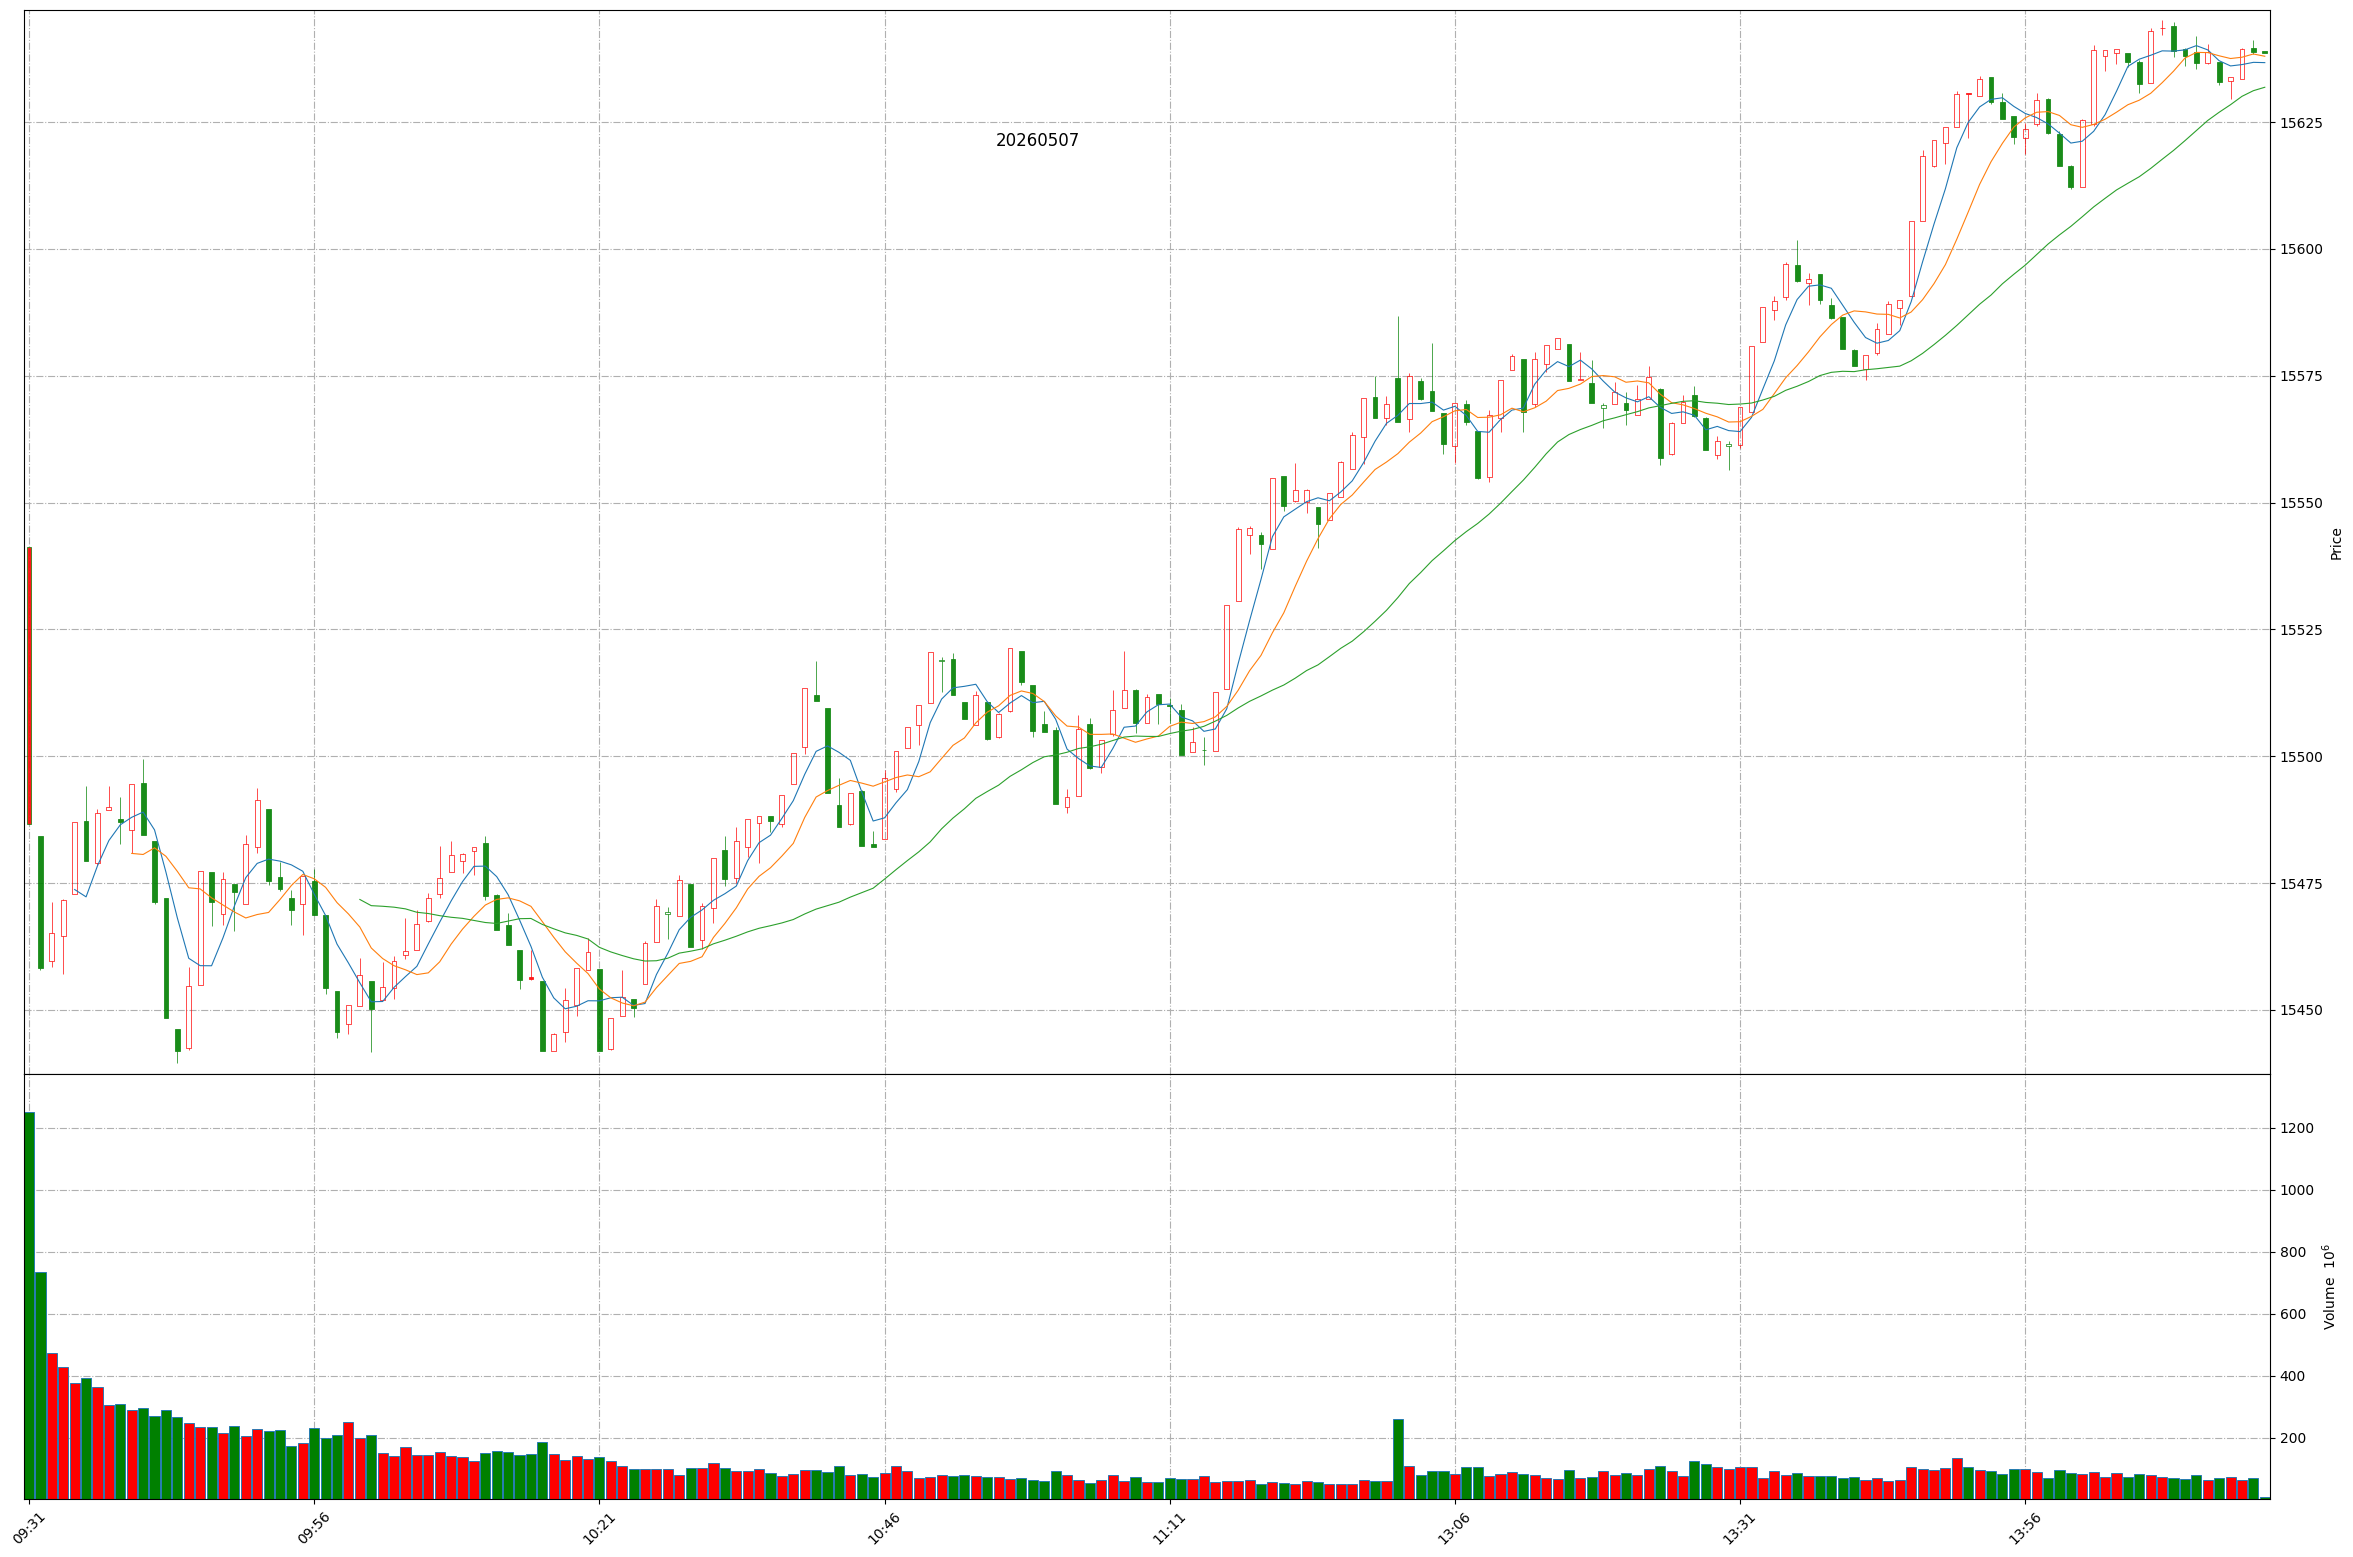
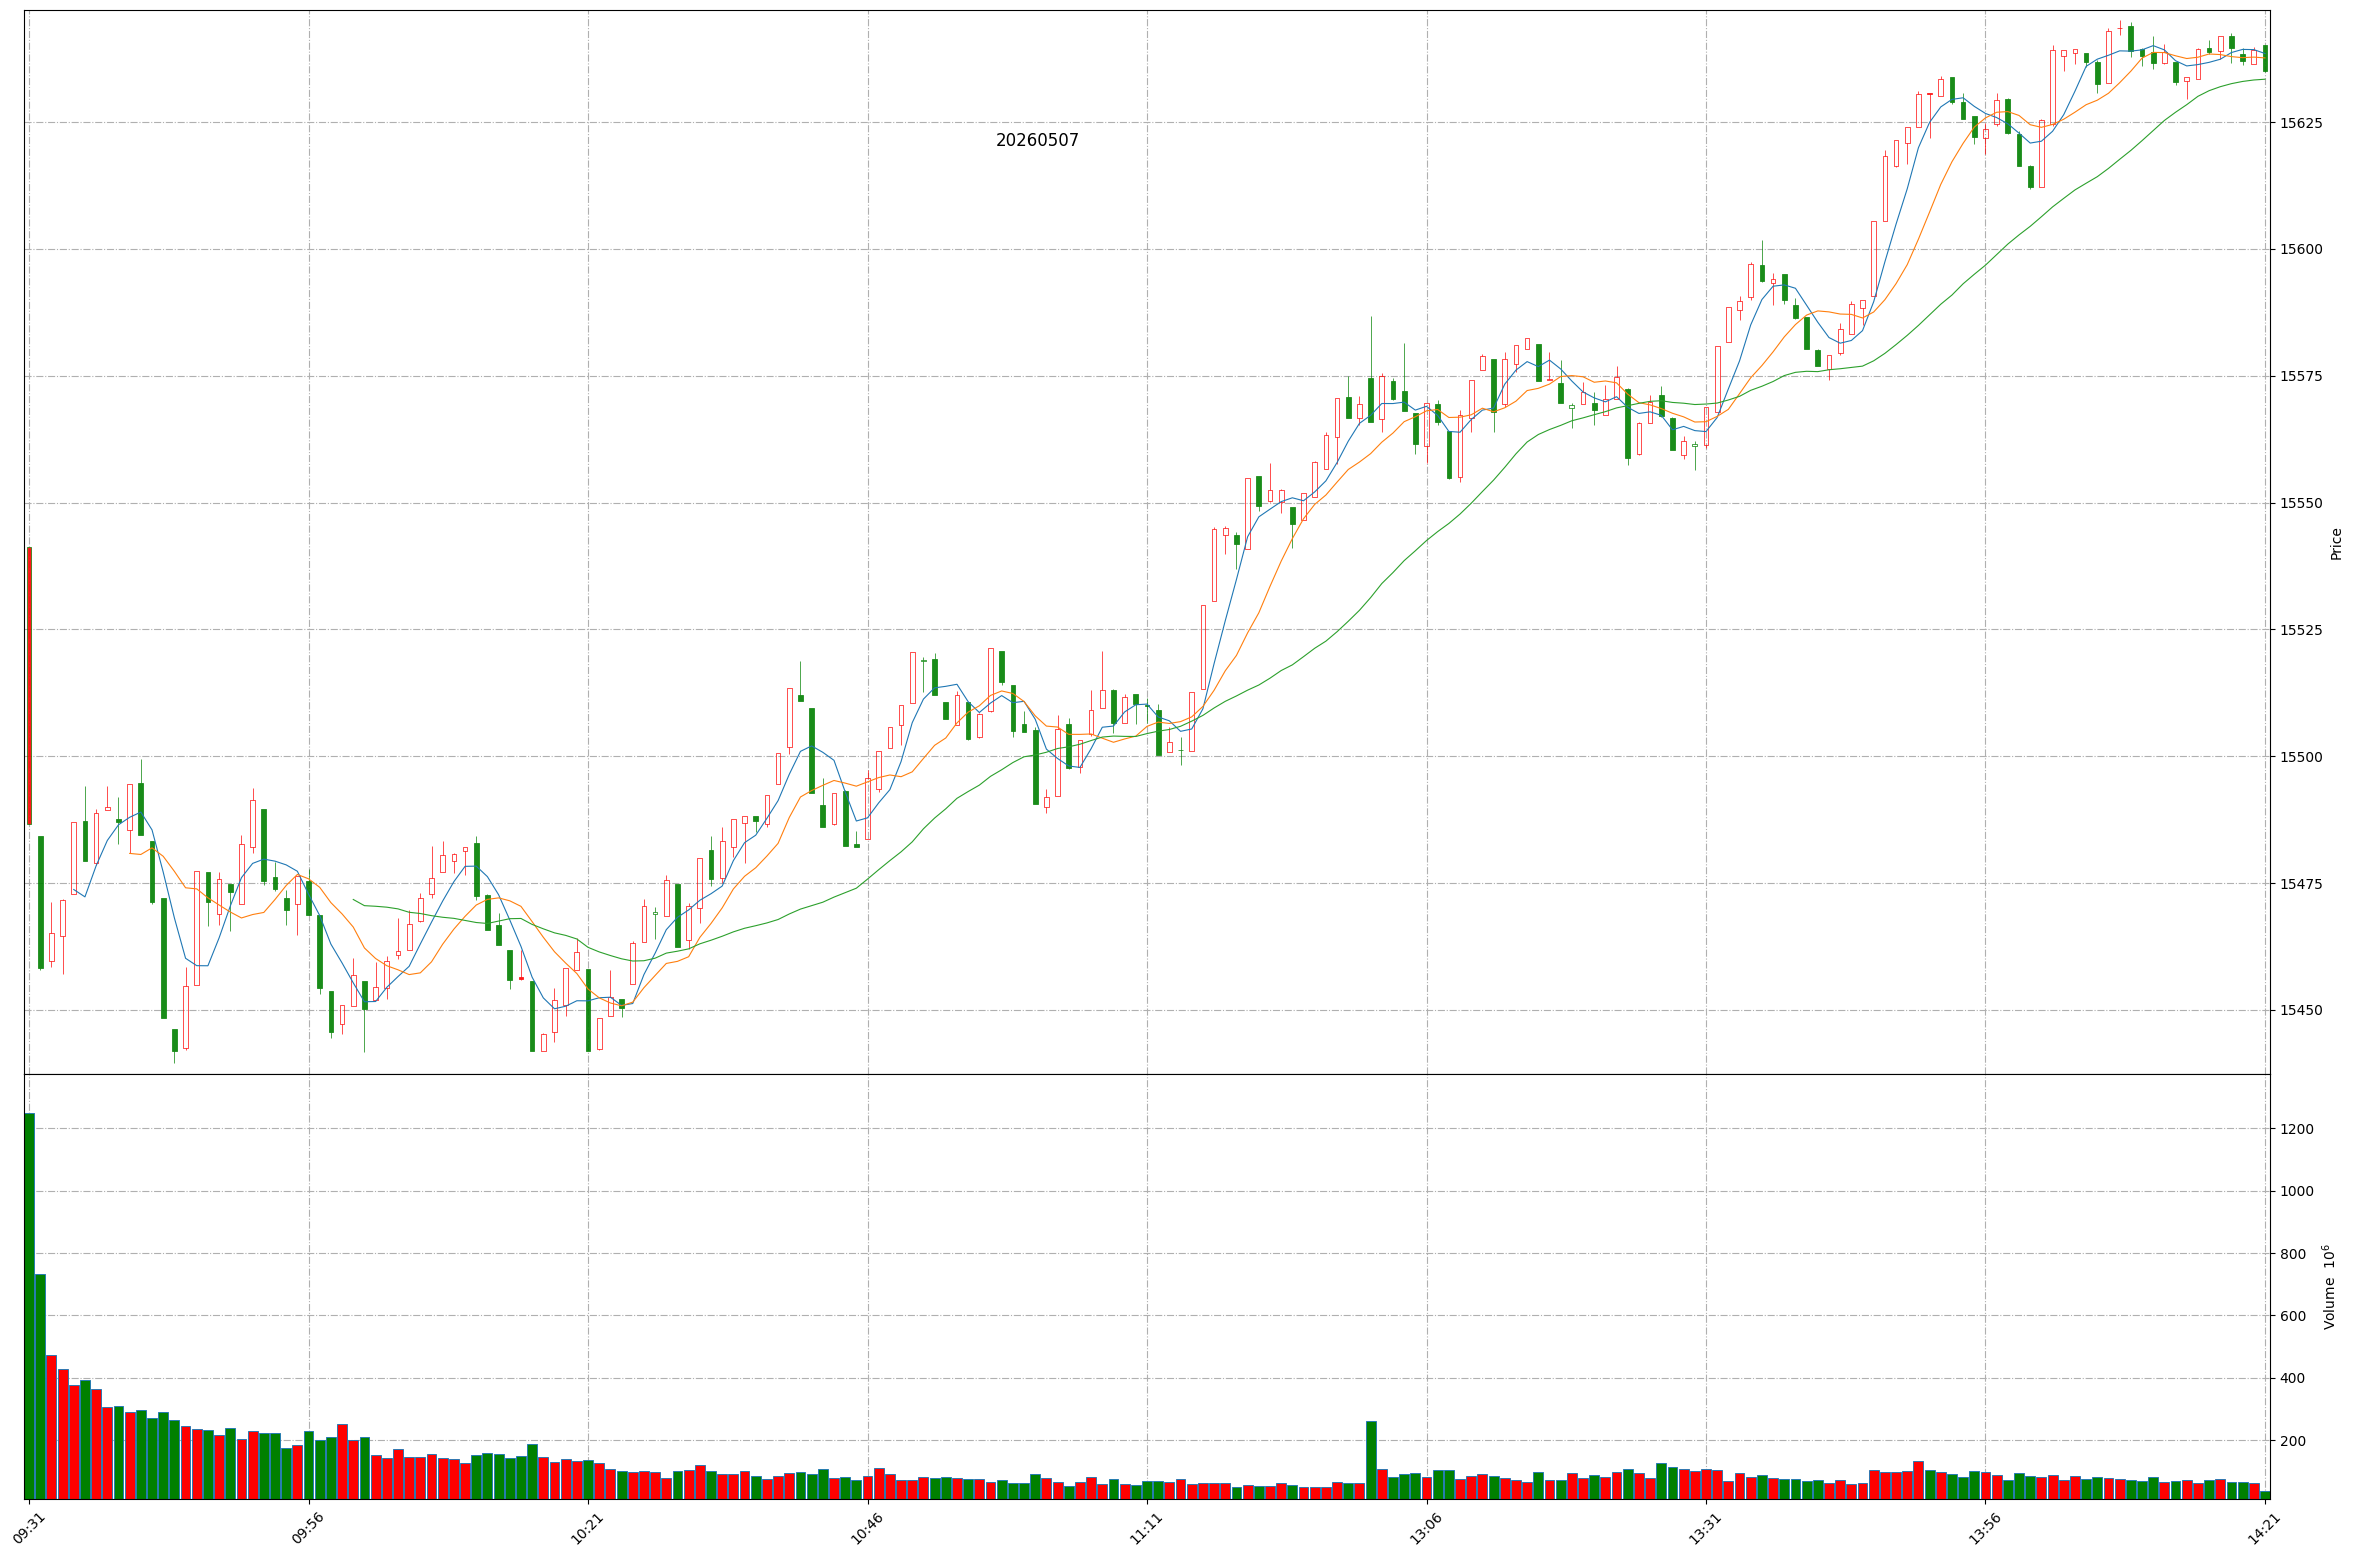
Github action update at 2026-05-07 14:20:42.

diff --git a/README.md b/README.md
@@ -1,11 +1,11 @@
 
 # Daily-A-share-market-quotes 每日 A 股指数（5min 更新）- 20260507
 
-### 上证指数 20260507 14:16
+### 上证指数 20260507 14:20
 ![](./fig/2026/5/20260507-sh000001.png)
 
-### 深证成指 20260507 14:16
+### 深证成指 20260507 14:20
 ![](./fig/2026/5/20260507-sz399001.png)
 
-### 北证50 20260507 14:16
+### 北证50 20260507 14:20
 ![](./fig/2026/5/20260507-bj899050.png)
